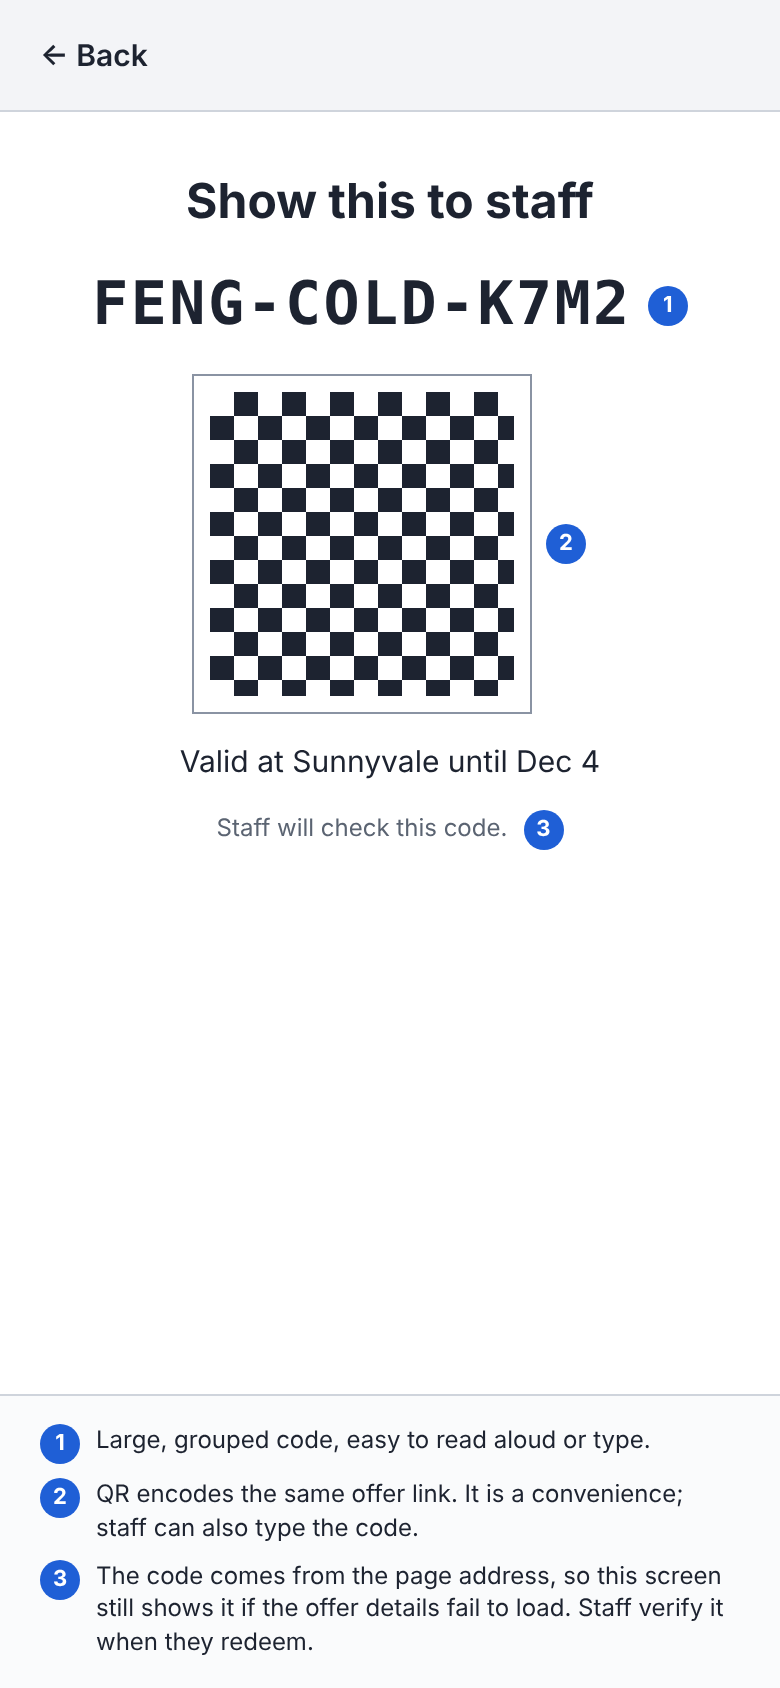
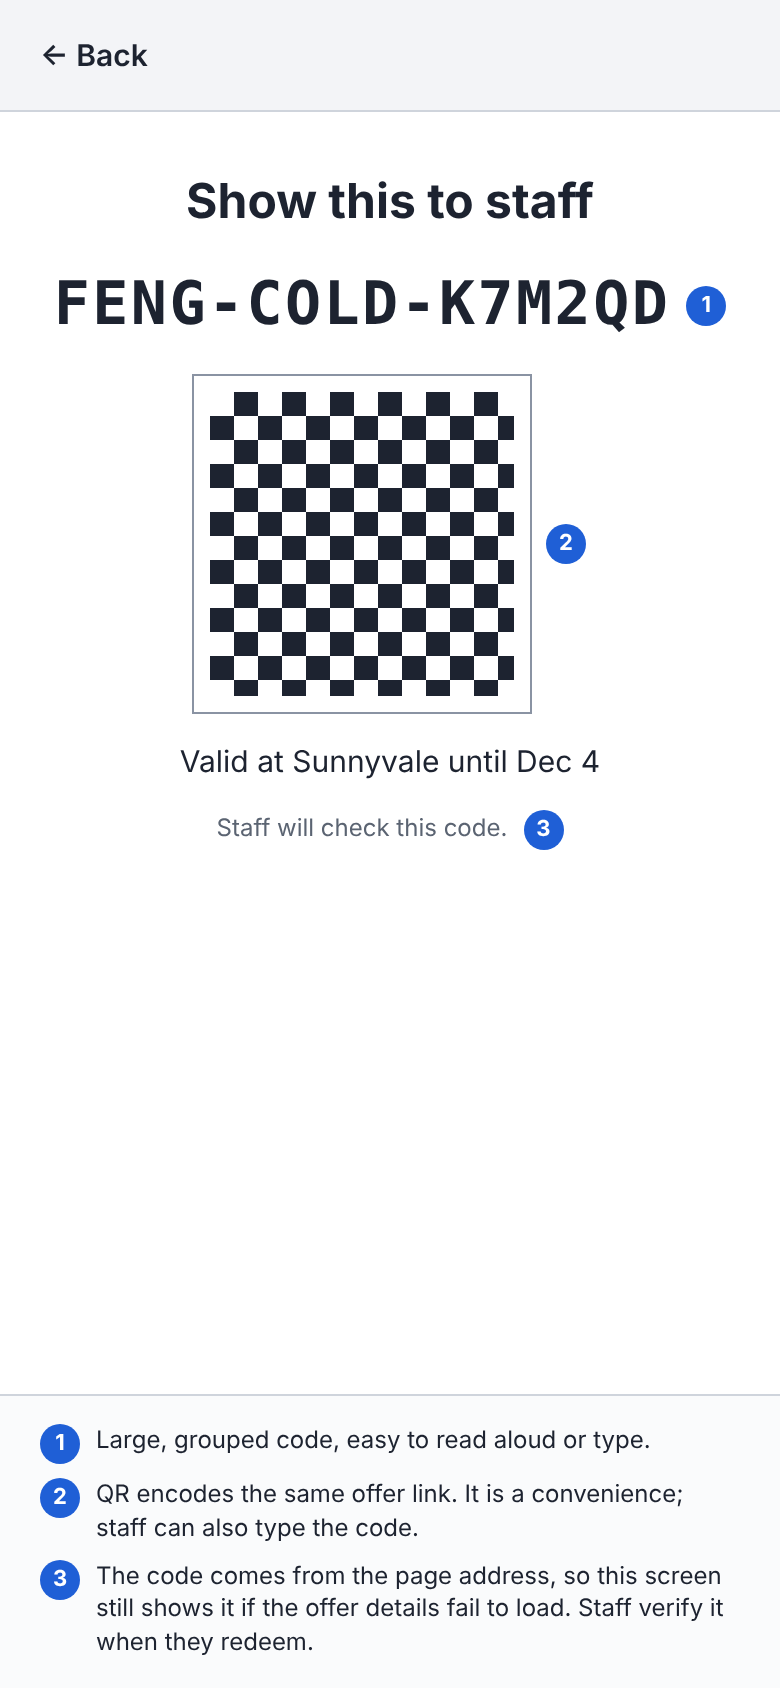
Update spec and mocks: 6-char codes, next-day return offer, void rules

Changed region(s): [[0.1538, 0.154, 0.9231, 0.2156], [0.0615, 0.154, 0.1231, 0.1848], [0.1231, 0.1848, 0.1538, 0.2156]]

diff --git a/docs/FRONTEND_SPEC.md b/docs/FRONTEND_SPEC.md
@@ -159,17 +159,21 @@ Rules:
 - Any other combination returns `409 INVALID_TRANSITION`. The UI only shows allowed actions, so this happens only with stale screens.
 - Every write carries the item's `version`. A mismatch returns `409 STALE_VERSION` with the current item.
 - `mark_sent` is irreversible, so the UI confirms it first.
+- `mark_sent`, `mark_replied` and `mark_declined` are manual tracking only. The app never sends a message or contacts a platform; the manager records what they did outside the app.
+- `mark_declined` also sets `replied_at` if it is empty, because a decline is a response.
 
 ### 3.3 Code lifecycle
 
 | Kind | Created | Uses | Valid | Ends |
 |---|---|---|---|---|
 | `creator` | When the campaign is created | Many (each use is one diner's first visit) | Campaign dates at the campaign's location | Expires at end of local end date |
-| `return` | When a first visit is redeemed | Exactly 1 | 30 days (configurable), same location | Used, expired or voided |
+| `return` | When a first visit is redeemed: one per redemption, whatever the party size | Exactly 1 | From the next local day for 30 days (`return_valid_days`, configurable), same location | Used, expired or voided |
 
 Derived values:
 - `type` of a redemption = `first` (creator code) or `return` (return code).
 - `visit_number` = 1 for first, 2 for return. Visit 3+ is out of scope (return codes don't issue new return codes).
+- A return code expires at 23:59:59 local time on its last day. It does not end with the campaign.
+- Voiding a **first visit** cancels its unused return code (it stays unusable and returns `CODE_VOIDED`), and is blocked if the return code was already used. Voiding a **return visit**, for example when staff used the wrong code, makes that return code usable again if it has not expired.
 - A repeat visit is attributed to the creator of its parent first-visit redemption.
 
 ---
@@ -322,9 +326,9 @@ Edge cases:
 +----------------------------------------------------------------------------------+
 | (6) ▾ @xiaochi.sv · Xiaohongshu · 9.1k · [Open profile ↗]                        |
 |  +----------------------------------------------------------------------------+  |
-|  | EN  [Draft]                                              (7) 109 / 1000    |  |
+|  | EN  [Draft]                                              (7) 111 / 1000    |  |
 |  | Hi! We'd love to host you at Feng Hotpot Sunnyvale. Your offer:            |  |
-|  | [site]/r/FENG-COLD-4TWE                                                    |  |
+|  | [site]/r/FENG-COLD-4TWE6V                                                  |  |
 |  | No recent posts to reference  ·  (8) Offer link included ✓                 |  |
 |  | (9) [Edit]  [Approve]  [Reject]                                            |  |
 |  +----------------------------------------------------------------------------+  |
@@ -401,9 +405,9 @@ Detail:
 | (2) First visits 12 | Return visits 3 | Repeat rate 25% | Cost / first visit $18.75 |
 +----------------------------------------------------------------------------------+
 | Creator       | Code (3)       | QR | Outreach | Post link (4)     | Post date | First | Return | Cost |
-| @bayareabites | FENG-COLD-K7M2 [copy] | [⬇] | Replied | creators.example/instagram/… [✎] | Nov 22 | 5 | 2 | $45 |
-| @southbayfood | FENG-COLD-9QXA [copy] | [⬇] | Replied | creators.example/tiktok/… [✎] | Nov 23 | 4 | 1 | $45 |
-| @xiaochi.sv   | FENG-COLD-4TWE [copy] | [⬇] | Sent    | [+ Add post link]  | —      | 0 | 0 | $45 |
+| @bayareabites | FENG-COLD-K7M2QD [copy] | [⬇] | Replied | creators.example/instagram/… [✎] | Nov 22 | 5 | 2 | $45 |
+| @southbayfood | FENG-COLD-9QXA4R [copy] | [⬇] | Replied | creators.example/tiktok/… [✎] | Nov 23 | 4 | 1 | $45 |
+| @xiaochi.sv   | FENG-COLD-4TWE6V [copy] | [⬇] | Sent    | [+ Add post link]  | —    | 0 | 0 | $45 |
 +----------------------------------------------------------------------------------+
 | (5) Row actions: Go to messages · Edit cost                                       |
 +----------------------------------------------------------------------------------+
@@ -459,7 +463,7 @@ OFFER                               SHOW TO STAFF (full screen)
 | FENG HOTPOT   [EN | 中文]|        | ← Back                   |
 | Sunnyvale                |        |  Show this to staff      |
 |                          |        |                          |
-| Free appetizer for       |        |  FENG-COLD-K7M2          |
+| Free appetizer for       |        |  FENG-COLD-K7M2QD        |
 | your table               |        |  (large, grouped)        |
 | Recommended by           |        |  [QR]                    |
 | @bayareabites            |        |  Valid at Sunnyvale      |
@@ -512,7 +516,7 @@ REDEEM                       RESULT (first visit)           RESULT (return visit
 - **Redeem** disables while sending and sends an `idempotency_key`. A retry after a dropped connection can't create a second redemption.
 - If the network fails after tapping, show "We couldn't confirm this went through." and point to **Recent**; do not claim success or failure.
 - The **return offer** screen stays until dismissed. **Recent** entries for first visits have **Show return offer again**.
-- **Void** (P1): staff can void a redemption made in the last 15 minutes with a confirm step. A first-visit redemption can't be voided once its return code was used.
+- **Void** (P1): staff can void a redemption made in the last 15 minutes with a confirm step. A first-visit redemption can't be voided once its return code was used. Voiding a return visit makes its return code usable again if it has not expired. If staff void a first visit because of a typo, they redeem the creator code again; that issues a new return code and the old one stops working.
 - Shared device: sign out automatically after 15 minutes of inactivity; no codes stored in browser storage.
 
 | API error code | Message to staff |
@@ -644,7 +648,7 @@ Response `201`:
   "creators": [ {
       "campaign_creator_id": "cc_1", "version": 3,
       "creator": { "id": "c_1", "handle": "@bayareabites", "platform": "instagram", "profile_url": "https://…" },
-      "code": { "value": "FENG-COLD-K7M2", "url": "https://creator-loop.example/r/FENG-COLD-K7M2", "expires_at": "2026-12-05T07:59:59Z" },
+      "code": { "value": "FENG-COLD-K7M2QD", "url": "https://creator-loop.example/r/FENG-COLD-K7M2QD", "expires_at": "2026-12-05T07:59:59Z" },
       "outreach_summary": { "draft": 0, "approved": 1, "sent": 0, "replied": 1, "declined": 0, "rejected": 0 },
       "post_url": "https://creators.example/instagram/bayareabites/p/9", "post_date": "2026-11-22",
       "cost_cents": 4500, "first_visits": 5, "return_visits": 2, "is_simulated": false } ]
@@ -661,9 +665,9 @@ Response `201`:
   "creator": { "id": "c_3", "handle": "@xiaochi.sv", "platform": "xiaohongshu",
                "profile_url": "https://creators.example/xiaohongshu/xiaochi.sv", "followers": 9100 },
   "platform": "xiaohongshu", "lang": "en",
-  "draft_text": "Hi! We'd love to host you at Feng Hotpot Sunnyvale. Your offer: https://creator-loop.example/r/FENG-COLD-4TWE",
+  "draft_text": "Hi! We'd love to host you at Feng Hotpot Sunnyvale. Your offer: https://creator-loop.example/r/FENG-COLD-4TWE6V",
   "edited_text": null,
-  "current_text": "Hi! We'd love to host you at Feng Hotpot Sunnyvale. Your offer: https://creator-loop.example/r/FENG-COLD-4TWE",
+  "current_text": "Hi! We'd love to host you at Feng Hotpot Sunnyvale. Your offer: https://creator-loop.example/r/FENG-COLD-4TWE6V",
   "status": "draft",
   "has_offer_link": true,
   "referenced_posts": [],
@@ -697,7 +701,7 @@ Returns the updated item. Server enforces: transition table (§3.2); text 1–20
 
 **`POST /redemptions`**
 ```json
-{ "code": "FENG-COLD-K7M2", "location": "sunnyvale", "party_size": 2, "idempotency_key": "9a1b…" }
+{ "code": "FENG-COLD-K7M2QD", "location": "sunnyvale", "party_size": 2, "idempotency_key": "9a1b…" }
 ```
 Response `201`:
 ```json
@@ -736,7 +740,7 @@ For a return code, `type` is `return`, `visit_number` is 2, and `return_offer` i
 - `GET /summary?location=` → `{ "location", "drafts_waiting", "approved_unsent", "active_campaigns", "redemptions_today" }`
 - `GET /redemptions/recent` → `{ "location", "items": [ { "id", "code", "type", "party_size", "redeemed_at", "voided_at", "voided_reason", "can_void_until", "has_return_offer" } ] }`
 - `GET /redemptions/:id` → same shape as the `POST /redemptions` response, so a first visit's return offer can be shown again.
-- `POST /redemptions/:id/void` with `{ "reason": "Wrong party size" }` → the updated recent-redemption item. Allowed for 15 minutes; `409 INVALID_TRANSITION` if the return code was already used.
+- `POST /redemptions/:id/void` with `{ "reason": "Wrong party size" }` → the updated recent-redemption item. Allowed for 15 minutes; `409 INVALID_TRANSITION` if the return code was already used. Voiding a return visit restores that return code if it has not expired.
 - `POST /simulate` with `{ "campaign_id": "cmp_1", "days": 14 }` → `{ "campaign_id", "days", "added": {redemptions, reviews}, "brief": {status} }`. Repeating it does not add duplicate rows.
 - `POST /outreach/:id/regenerate` with `{ "version": 3 }` → the updated outreach item, with `generation_status` back to `pending`. Rewriting replaces the AI draft and clears `edited_text`, so the UI confirms first.
 - `POST /briefs/generate` with `{ "location": "sunnyvale" }` → `202` with `{ "status": "generating" }`.
@@ -794,7 +798,8 @@ Notes:
 - Add `is_simulated boolean not null default false` to every table that simulation writes to. Aggregates must be computed with and without simulated rows so the UI can label them.
 - **Code format:** readable prefix + random part from an alphabet without look-alikes, e.g. `FENG-COLD-` + 6 random characters; return codes `BACK-` + 8. Compare case-insensitively after stripping spaces and hyphens. The plan's example (`FENG-COLD-AMY7`) is too guessable; don't derive codes from creator names.
 - Single-use enforcement: update `uses` with a conditional atomic update (`... where uses < max_uses`), or a unique constraint on `parent_redemption_id`.
-- Voiding a first-visit redemption voids its unused return code; it is blocked if the return code was already used.
+- Voiding a first-visit redemption voids its unused return code; it is blocked if the return code was already used. Voiding a return-visit redemption sets that code's `uses` back to 0 if it has not expired.
+- Occasions live in the `occasions` table, seeded with the plan's five. Copy the occasion's offer into `offer_codes.offer` when a campaign is created, so editing an occasion later does not change live offers. Add `is_active` to hide old occasions instead of deleting them.
 - Audit events: `campaign.create`, `outreach.approve`, `outreach.reject`, `outreach.mark_sent`, `outreach.mark_replied`, `redemption.create`, `redemption.void`, `simulate.run`, `brief.generate`.
 - AI draft generation: treat creator captions as **untrusted data** (they could contain instructions). Wrap them in clear delimiters, validate structured output, only allow referenced post ids that exist for that creator, strip any URL except the offer link, and keep numbers/claims out of drafts that aren't in the offer. Drafts should state the offer plainly and not pressure for positive coverage; remind creators to disclose per platform rules (confirm wording with Aolin/Sherry).
 

diff --git a/mocks/README.md b/mocks/README.md
@@ -15,6 +15,7 @@ The files describe one consistent campaign so they can be compared with each oth
 - **Results to date (through Dec 4):** 12 first visits and 3 return visits, $225 total cost, so $18.75 per first visit and a 25% repeat rate.
 - **Outreach:** 10 messages: 3 replied, 1 approved, 1 sent, 1 declined, 1 rejected, 3 drafts (one ready, one failed, one still being written).
 - **Staff examples** happen on Fri Nov 27 at about 6 PM Sunnyvale time. The brief is for the week of Nov 30, with data through Dec 4.
+- **Codes:** creator codes are `FENG-COLD-` plus 6 random characters. Return codes are `BACK-` plus 8, shown as two groups of 4. A return offer starts the next local day and lasts 30 days.
 - `creators.json` shows the creators **after** `cmp_1` was created, so `active_campaigns` is filled in. The Creators and Add-to-campaign wireframes show the moment **before** it was created.
 
 If you change a number in one file, check the others. The checks that were run on these files are listed at the bottom.
